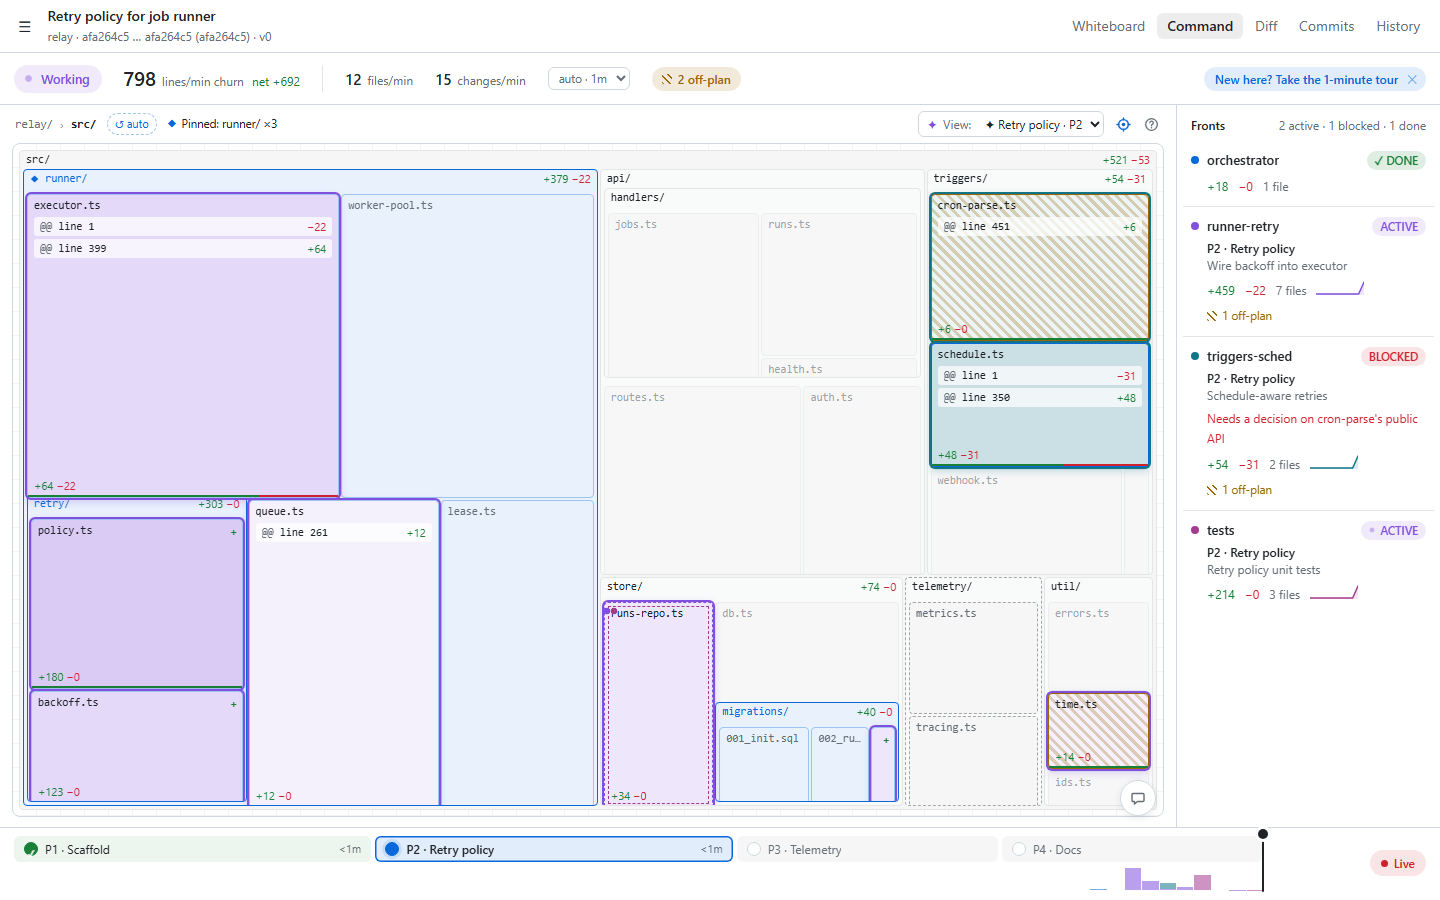
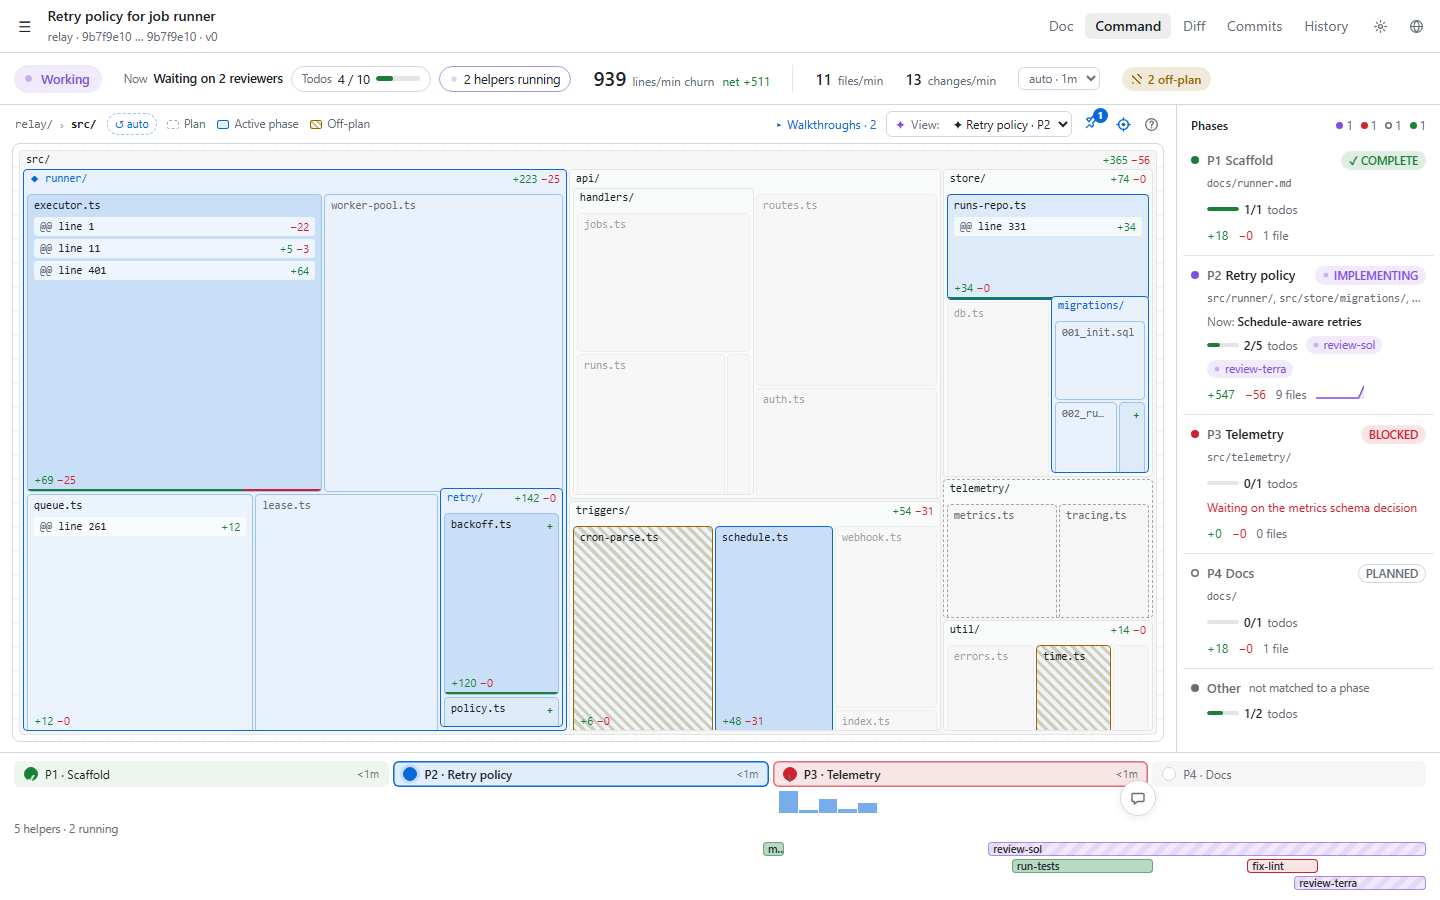
README, tour and images describe the Command center as it is now
README: phases in one checkout, observed progress, helper lanes, per-phase
views, walkthroughs by phase with the kept list, the headless tool and
Markdown export, and the current devserver flags. The guided tour's stops
cover progress and helper lanes and speak of phases, not checkpoints or
fronts. New stills (doc with Contents, Command center with progress,
walkthrough, tour) and the Command demo, recorded in one checkout with
progress. record.mjs gains a 'readme' set so the stills can be regenerated;
devserver --walk works with --single.

Copilot-Session: 6c1e4604-f3ab-4088-a578-f696a177c984

diff --git a/extensions/marginal/web/command/tour.js b/extensions/marginal/web/command/tour.js
@@ -20,7 +20,7 @@ export function startCommandTour(o = {}) {
                     p({ class: "guide-muted" }, "About a minute. Use ", kbd("→"), " and ", kbd("←"), " to move, ", kbd("Esc"), " to stop."),
                 ],
             },
-            { id: "init", when: () => !plan(), target: ".cc .cc-init", title: "Start here", body: () => p("Nothing is being tracked yet. ", h("b", {}, "Initialize command center"), " asks this panel's Copilot session to read the doc and the branch, set the plan and register its worktrees. Add a goal to steer it.") },
+            { id: "init", when: () => !plan(), target: ".cc .cc-init", title: "Start here", body: () => p("Nothing is being tracked yet. ", h("b", {}, "Initialize command center"), " asks this panel's Copilot session to read the doc and the branch, set the plan and watch the checkout it builds in. Add a goal to steer it.") },
             {
                 id: "strip",
                 target: ".cc .strip",
@@ -28,17 +28,18 @@ export function startCommandTour(o = {}) {
                 title: "Instruments",
                 body: () => [
                     p("The lamp tells you what the orchestrator is doing: ", h("b", {}, "Working"), ", ", h("b", {}, "Waiting on you"), " (with its question) or ", h("b", {}, "Complete"), ". It goes grey when the orchestrator is offline."),
+                    p("Beside it, progress read from the session: ", h("b", {}, "Now"), " (what it's doing), its ", h("b", {}, "todos"), " done / total and the ", h("b", {}, "helpers"), " running. Click either count for the list. The agent never reports any of it."),
                     p("Churn is lines added plus removed per minute. The window scales with session age; pick one to override it."),
                 ],
             },
-            { id: "offplan", when: plan, target: ".cc button.offplan:not([hidden])", placement: "bottom", title: "Off-plan edits", body: () => p("Files a front touched outside the checkpoints it's working on get a yellow hatch. Click the chip to show only those; click again for everything.") },
+            { id: "offplan", when: plan, target: ".cc button.offplan:not([hidden])", placement: "bottom", title: "Off-plan edits", body: () => p("Files changed outside what the phases being worked on deliver get a yellow hatch. Click the chip to show only those; click again for everything.") },
             {
                 id: "map",
                 when: plan,
                 target: ".cc .stage",
                 title: "The territory map",
                 body: () => [
-                    p("Every file in the repository, sized by lines. Changed files take their front's colour and warm up with churn; a ring pings when one changes. Dashed outlines are the plan's footprint, blue is the active checkpoint."),
+                    p("Every file in the repository, sized by lines. Changed files are coloured and warm up with churn; a ring pings when one changes. Dashed outlines are the plan's footprint, blue marks the active phase's files."),
                     ul(["Hover a tile for who changed it, how much and when"], ["Double-click a folder to zoom in; ", kbd("⌫"), " zooms out"], [kbd("P"), " over a tile pins it (drawn 3× larger); ", kbd("M"), " opens a monitor on its folder"], ["Big changed files list their changed functions"]),
                 ],
             },
@@ -50,8 +51,8 @@ export function startCommandTour(o = {}) {
                 placement: "bottom",
                 title: "Views and follow",
                 body: () => [
-                    p("A view is a saved zoom, pins and monitors. The orchestrator can suggest one per checkpoint (✦); with follow on ", h("span", { class: "guide-ic" }, "◎"), ", it applies as each checkpoint starts."),
-                    p("Change the layout and follow holds off for that checkpoint; ", h("b", {}, "Return to suggested"), " brings it back, ", h("b", {}, "Save view"), " keeps yours."),
+                    p("A view is a saved zoom, pins and monitors. The orchestrator can suggest one per phase (✦); with follow on ", h("span", { class: "guide-ic" }, "◎"), ", it applies as each phase starts. The pin button lists what's pinned."),
+                    p("Change the layout and follow holds off for that phase; ", h("b", {}, "Return to suggested"), " brings it back, ", h("b", {}, "Save view"), " keeps yours."),
                 ],
             },
             { id: "dock", when: plan, target: ".cc .dock:not([hidden])", placement: "top", title: "Monitors", body: () => p("A monitor follows one folder: a feed of edits as they land (click a row for the file's current diff) or a table of every changed file. Close it with ✕.") },
@@ -61,15 +62,15 @@ export function startCommandTour(o = {}) {
                 target: ".cc .rail-fronts",
                 placement: "left",
                 title: "Phases",
-                body: () => [p("One card per phase: its stage (planned, implementing, in review, blocked with why, complete), what it delivers, what it has changed so far and its recent pace."), ul(["Hover a card to preview its files on the map"], ["Click it to show only that phase's files; click again for all"], ["The chat bubble adds the phase to the Command chat"]), p({ class: "guide-muted" }, "With several worktrees at once (parallel sessions, stacked PRs), a Worktrees list appears below.")],
+                body: () => [p("One card per phase: its stage (planned, implementing, in review, blocked with why, complete), what it delivers, what it has changed so far and its recent pace. Its todos done / total, the todo it's on and its running helpers show there too; ", h("b", {}, "Other"), " collects todos that match no phase."), ul(["Hover a card to preview its files on the map"], ["Click it to show only that phase's files; click again for all"], ["The chat bubble adds the phase to the Command chat"]), p({ class: "guide-muted" }, "With several worktrees at once (parallel sessions, stacked PRs), a Worktrees list appears below.")],
             },
             {
                 id: "timeline",
                 when: plan,
                 target: ".cc .timeline .track",
                 placement: "top",
-                title: "Checkpoints",
-                body: () => [p("The plan's phases in order: ✓ done, blue active, grey still to come. Click one to apply its view or ask the orchestrator about it."), p("Under them, edits over the same time, stacked by front: where the work happened and how busy it was.")],
+                title: "Timeline",
+                body: () => [p("The plan's phases in order: ✓ done, blue active, grey still to come. Click one to apply its view or ask the orchestrator about it."), p("Under them, edits over the same time, and one bar per helper run (hover for what it was). An idle helper holds no lane; past four lanes, the rest merge into a +n block.")],
             },
             {
                 id: "chat",
@@ -78,10 +79,10 @@ export function startCommandTour(o = {}) {
                 title: "Talk to the orchestrator",
                 body: () => [
                     p("The Command chat goes to the session running the plan and remembers the conversation when you close it."),
-                    ul(["Point at things first: the ", h("b", {}, "+"), " on a hovered tile, a front's chat bubble, or a checkpoint's menu adds them as chips"], ["Ctrl-click tiles to select several (Shift-click for a range), then ", h("b", {}, "Add to chat"), " in the header"], ["Ask “walk me through the last checkpoint” for a guided walkthrough of what changed"]),
+                    ul(["Point at things first: the ", h("b", {}, "+"), " on a hovered tile, a phase's chat bubble, or a phase's menu on the timeline adds them as chips"], ["Ctrl-click tiles to select several (Shift-click for a range), then ", h("b", {}, "Add to chat"), " in the header"], ["Ask “walk me through P2” for a guided walkthrough of what a phase delivered"]),
                 ],
             },
-            { id: "walk", target: ".cc .walk-reopen", placement: "bottom", title: "Walkthroughs", body: () => p("When the orchestrator explains a change, it opens as a walkthrough beside the map: one stop per idea, with the diff, and the map zooming to each stop's files. This button brings back one you closed.") },
+            { id: "walk", target: ".cc .walk-reopen", placement: "bottom", title: "Walkthroughs", body: () => p("When the orchestrator explains a change, it opens as a walkthrough beside the map: one stop per idea, with the diff, and the map zooming to each stop's files. This button lists them all: reopen one, or see which you've reviewed.") },
             {
                 id: "done",
                 title: "That's the tour",

diff --git a/README.md b/README.md
@@ -2,7 +2,7 @@
 
 **Code-linked docs and a live Command center for GitHub Copilot.**
 
-Marginal is a canvas extension for the [GitHub Copilot app](https://docs.github.com/en/copilot/how-tos/github-copilot-app/working-with-canvas-extensions). Copilot draws structured, reviewable explanations of your code as RFC-style **docs**: prose with sequence and flow diagrams, call-stack diffs, database schema views and verified code peeks. You can comment on any paragraph, diagram or line range in the margin, and the feedback goes straight back to the agent. When Copilot implements a multi-step plan across several worktrees, a doc's **Command** tab becomes a live mission wall: a territory map of the repository lights up as each worktree edits files.
+Marginal is a canvas extension for the [GitHub Copilot app](https://docs.github.com/en/copilot/how-tos/github-copilot-app/working-with-canvas-extensions). Copilot draws structured, reviewable explanations of your code as RFC-style **docs**: prose with sequence and flow diagrams, call-stack diffs, database schema views and verified code peeks. You can comment on any paragraph, diagram or line range in the margin, and the feedback goes straight back to the agent. When Copilot implements a multi-step plan, a doc's **Command** tab becomes a live mission wall: the plan's phases, a territory map of the repository that lights up as files change, and what the orchestrator and its helper agents are doing right now.
 
 > **Status: alpha.** It depends on the Copilot SDK's canvas extension surface, which is marked **experimental** and may change between Copilot releases.
 
@@ -41,18 +41,18 @@ Marginal is a canvas extension for the [GitHub Copilot app](https://docs.github.
 
 ![The Command center](docs/images/command-center.png)
 
-- **Territory map:** every file in the repository, sized by lines of code. Changed files take their worktree's colour and warm with churn, and a ring pings on each change. Dashed outlines show the plan's footprint and blue shows the active checkpoint. Edits outside the plan get a yellow hatch.
-- **Phases:** the plan's deliverables, each with its stage (planned, implementing, in review, blocked with a reason, complete), what it builds, what it has changed so far and its recent pace. Click one to show only its files on the map. The orchestrator gives the plan the worktree it builds in; with several worktrees at once (parallel sessions, stacked PRs) they're listed too, as Worktrees.
-- **Progress, observed:** what the orchestrator is doing now, how far through its todo list it is and which helper agents it's waiting on, in the instrument strip, on each phase and as lanes on the timeline. It comes from the session's own events and todo list; the orchestrator never reports it.
-- **Timeline:** the phases in order over a histogram of edits. Click a phase to apply its suggested view or ask the orchestrator about it.
-- **Views, follow, pins and monitors:** the agent can suggest a view per checkpoint, and it applies automatically while you follow. You can pin areas to draw them 3× larger, or open live diff-feed monitors on folders.
-- **Checkpoint walkthroughs:** ask "walk me through the last checkpoint" to get a stepper with one stop per idea, each with its diff. The map zooms and badges each stop's files. The Command chat docks under the walkthrough, and Copilot revises or expands stops in place when you ask about them.
-- **Command chat:** a persistent chat with the orchestrating session. Point at tiles, fronts, checkpoints or walkthrough stops to attach them as focus chips.
+- **Phases:** the plan's deliverables, each with its stage (planned, implementing, in review, blocked with a reason, complete), what it builds, what it has changed so far and its recent pace. Click one to show only its files on the map. The orchestrator builds the phases in one checkout, which the canvas watches; with several at once (parallel sessions, stacked PRs) they're listed too, as Worktrees.
+- **Progress, observed:** the instrument strip shows what the orchestrator is doing now, its todos done / total and how many helper agents are running; click either count for the list. Each phase card shows its todos, the one it's on and its running helpers, and an **Other** card collects todos that match no phase. All of it comes from the session's own events and todo list: the orchestrator never reports progress.
+- **Territory map:** every file in the repository, sized by lines of code. Changed files are coloured and warm with churn, and a ring pings on each change. Dashed outlines show the plan's footprint and blue marks the active phase's files. Edits outside the plan get a yellow hatch.
+- **Timeline:** the phases in order over a histogram of edits, and under it one bar per helper-agent run. A helper that sits idle holds no lane and returns to one when it's resumed; past four lanes, the extra runs merge into a `+n` block that lists them on hover. Click a phase to apply its suggested view or ask the orchestrator about it.
+- **Views, follow, pins and monitors:** the orchestrator can suggest a view for each phase, and it applies automatically while you follow. Pin areas to draw them 3× larger (the pin button lists them), or open live diff-feed monitors on folders.
+- **Walkthroughs:** ask "walk me through P2" (or "what's new since my last review") to get a stepper with one stop per idea, each with its diff. The map zooms and badges each stop's files. The Command chat docks under the walkthrough, and Copilot revises or expands stops in place when you ask about them. Every walkthrough is kept in a list, where you can reopen one and see which you've reviewed.
+- **Command chat:** a persistent chat with the orchestrating session. Point at tiles, phases or walkthrough stops to attach them as focus chips.
 - **Guided tour:** press **?** (or click the **?** in the map header) for a one-minute tour of all of the above.
 
-**Watch the plan land, then get walked through it.** Fronts' edits light up the map live. A checkpoint walkthrough zooms the map to each stop's code, and you can ask the orchestrator about any stop.
+**Watch the plan land, then get walked through it.** Edits light up the map live while the orchestrator works through its todos. A walkthrough zooms the map to each stop's code, and you can ask the orchestrator about any stop.
 
-![Live edits on the map, a checkpoint walkthrough stepping through its stops, and a question to the orchestrator](docs/images/demo-command.webp)
+![Live edits on the map, a walkthrough stepping through its stops, and a question to the orchestrator](docs/images/demo-command.webp)
 
 | Walkthrough | Guided tour |
 |---|---|
@@ -71,7 +71,7 @@ copilot plugin install marginal@marginal
 
 Then restart the Copilot app, or ask Copilot to reload extensions. The canvas registers as **Marginal** (canvas id `marginal`). Update with `copilot plugin update marginal`, remove with `copilot plugin uninstall marginal`.
 
-To stay on a tagged release instead of the latest `main`, add the marketplace at a tag, e.g. `copilot plugin marketplace add notthatbreezy/marginal#v0.1.0`. Releases and their notes are on the [releases page](https://github.com/notthatbreezy/marginal/releases); see [CHANGELOG.md](CHANGELOG.md).
+To stay on a tagged release instead of the latest `main`, add the marketplace at a tag, e.g. `copilot plugin marketplace add notthatbreezy/marginal#v0.6.0`. Releases and their notes are on the [releases page](https://github.com/notthatbreezy/marginal/releases); see [CHANGELOG.md](CHANGELOG.md).
 
 Your docs live in `~/.copilot/marginal/` (or `$COPILOT_HOME/marginal/`), outside the plugin, so updating or reinstalling keeps them.
 
@@ -90,22 +90,26 @@ Ask Copilot things like:
 - "Explain my branch in Marginal."
 - "Sketch how checkout calls the payment service on the Marginal scratchpad."
 - "Organize the Diff tab into file groups."
+- "Start a Marginal doc for this issue and put the plan in it."
 
-The agent calls the canvas's `instructions` action first (topics: `authoring`, `scratchpad`, `blocks`, `file-lenses` for file groups, `command`), then draws with actions such as `create`, `edit`, `read_file`, `diff` and `lens` (file groups).
+The agent calls the canvas's `instructions` action first (topics: `authoring`, `scratchpad`, `blocks`, `file-lenses` for file groups, `command`), then draws with actions such as `create`, `edit`, `read_file`, `diff` and `lens` (file groups). The same actions work without an open panel through the `marginal` tool, and `export` writes a doc (or one heading's part) to a Markdown file, diagrams included as text, for handing to people or helper agents.
 
 **Command center.** Open a doc that has a repository target and switch to the **Command** tab.
 
-- Click **Initialize command center**, optionally describing the goal. This session reads the doc and the branch, sets a plan, and registers the worktrees being edited.
-- Alternatively, ask the agent to follow the `command` instructions topic when it starts a multi-step implementation.
+- Click **Initialize command center**, optionally describing the goal. This session reads the doc and the branch, sets a plan of phases, and gives the canvas the checkout it builds in.
+- Or ask the agent to follow the `command` instructions topic when it starts a multi-step implementation.
+
+The orchestrator moves each phase through its stages as the work goes; everything else (edits, its todos, its helper agents) the canvas observes on its own.
 
 The protocol is described in [docs/command-center.md](docs/command-center.md).
 
 ## How it works
 
 - The plugin (`plugin.json`) ships one canvas extension, `extensions/marginal/`. Its `extension.mjs` joins the Copilot session with `joinSession()` and declares the canvas and its actions with `createCanvas()`. Each panel is served by a local HTTP server bound to `127.0.0.1`; every request needs a random per-panel token.
-- Docs, pins and the Command center's state and event log live in `~/.copilot/marginal/` and never leave your machine. Set `MARGINAL_DATA_DIR` to store them elsewhere.
-- Code is read from your local repositories with `git` at pinned commits. The Command center polls each registered worktree with `git diff` and `git ls-files`, running at most four git processes at once and passing `--no-optional-locks`.
-- **Checkpoint snapshots:** when a checkpoint finishes without a commit, the worktree's current contents are captured as a hidden commit under `refs/marginal/checkpoints/<doc>/…` in your repository. This uses a temporary index; your branch, HEAD, index and files are never touched. The refs are removed when the doc is deleted.
+- Docs, pins and the Command center's state, event log and progress live in `~/.copilot/marginal/` and never leave your machine. Set `MARGINAL_DATA_DIR` to store them elsewhere.
+- Code is read from your local repositories with `git` at pinned commits. The Command center polls each watched worktree with `git diff` and `git ls-files`, running at most four git processes at once and passing `--no-optional-locks`.
+- Progress comes from the orchestrator's session: its intent and helper-agent events, plus two read-only runtime calls for its todo list and its tasks, debounced and sent to the panel at most once a second.
+- **Checkpoint snapshots:** when a phase completes without a commit, the worktree's current contents are captured as a hidden commit under `refs/marginal/checkpoints/<doc>/…` in your repository. This uses a temporary index; your branch, HEAD, index and files are never touched. The refs are removed when the doc is deleted.
 - Only one Copilot session drives a doc's Command state at a time. That session holds a lease, claimed when it sets the plan. Other sessions can read the state but can't change it.
 - The browser UI is plain ES modules (`extensions/marginal/web/`) with no framework and no build step.
 
@@ -116,7 +120,7 @@ npm test                 # unit + integration tests (node:test, real git repos i
 npm run dev              # a standalone Command tab with a fake repo, worktrees and scripted edits; prints a URL
 ```
 
-`tools/devserver.mjs` also takes `--walk` (show a walkthrough), `--revising` (a rejected walkthrough), `--not-owner` (read-only chat) and `--empty` (no plan yet). After changing the extension, reload extensions in the Copilot app. See [CONTRIBUTING.md](CONTRIBUTING.md).
+`tools/devserver.mjs` also takes `--single` (every phase in one checkout), `--progress` (a scripted orchestrator's todos, intent and helpers; add `--many-helpers`, `--long`, `--reload`, `--stages` or `--bare` for other cases), `--walk` (show a walkthrough), `--revising` (a rejected walkthrough), `--canned-chat` (scripted Command chat replies), `--not-owner` (read-only chat) and `--empty` (no plan yet). `tools/demos/record.mjs` records the README's images and demos headlessly. After changing the extension, reload extensions in the Copilot app. See [CONTRIBUTING.md](CONTRIBUTING.md).
 
 ## Credits and license
 

diff --git a/CONTRIBUTING.md b/CONTRIBUTING.md
@@ -33,11 +33,11 @@ Thanks for helping. Marginal is small on purpose: no build step, no npm dependen
 
 ## Demo animations
 
-The README's animated WebPs are recorded headlessly by `tools/demos/record.mjs`, which drives the real UI with Playwright and a scripted chat (`tools/demos/canned-chat.mjs`), so no Copilot session is involved. It is stop-motion: a frame is captured only when something changes and held for as long as a viewer needs, so waiting never shows.
+The README's animated WebPs and screenshots are recorded headlessly by `tools/demos/record.mjs`, which drives the real UI with Playwright and a scripted chat (`tools/demos/canned-chat.mjs`), so no Copilot session is involved. It is stop-motion: a frame is captured only when something changes and held for as long as a viewer needs, so waiting never shows.
 
 ```sh
 npm i --no-save playwright-core sharp gifenc pngjs
-node tools/demos/record.mjs                 # everything; or name some: docs-comment docs-inspect command stills
+node tools/demos/record.mjs                 # everything; or name some: docs-comment docs-inspect command stills readme
 node tools/demos/record.mjs --sheet --out=/tmp/demos   # review a take: contact sheet of the held frames
 ```
 
